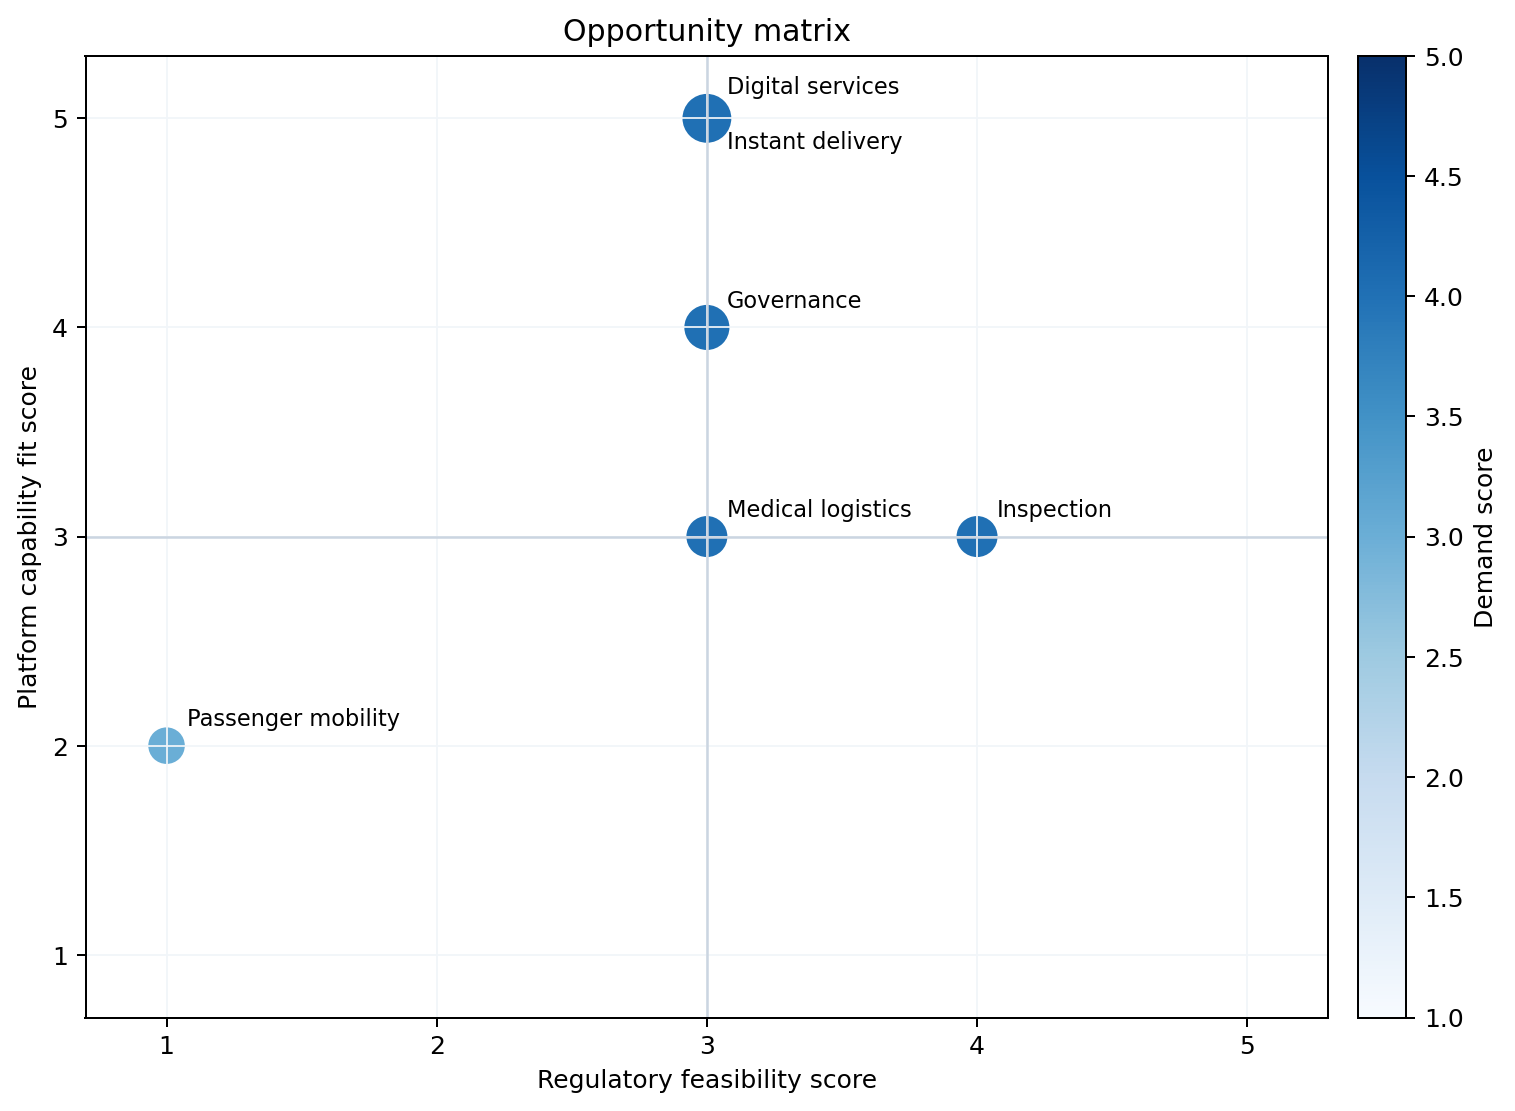
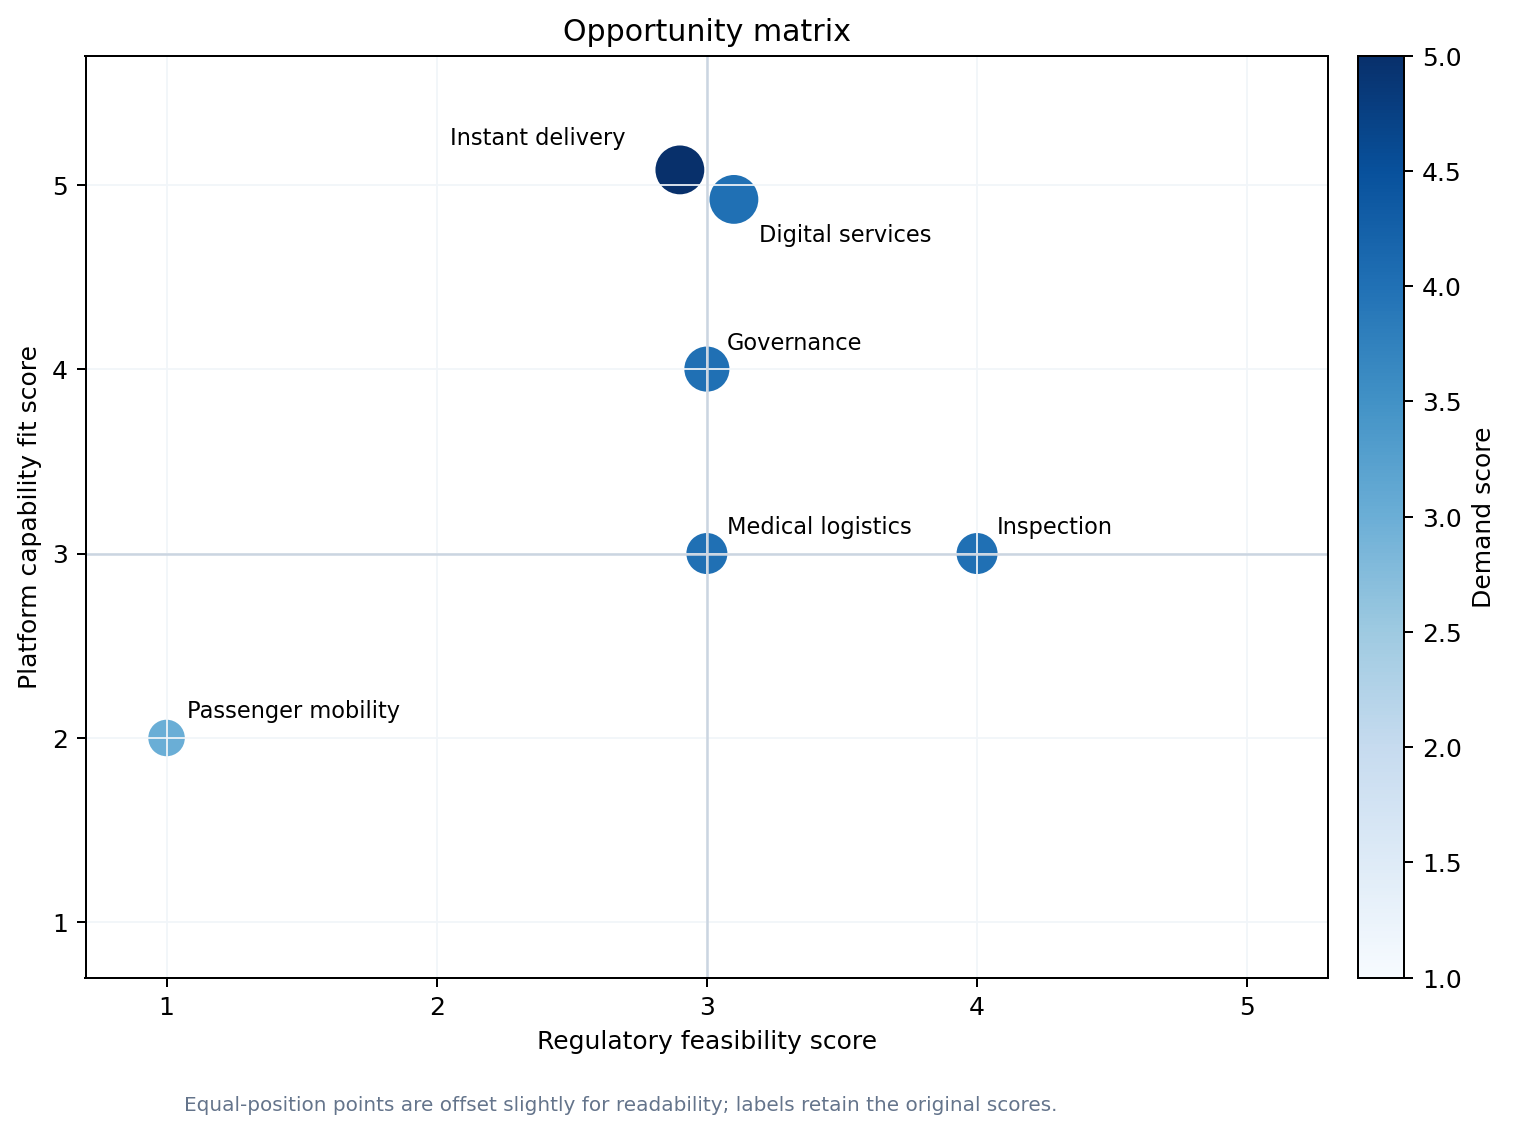
Finalize strategy simulator v1.0

diff --git a/app.py b/app.py
@@ -116,33 +116,72 @@ def priority_chart(ranked: pd.DataFrame) -> go.Figure:
 def opportunity_chart(ranked: pd.DataFrame) -> go.Figure:
     display = ranked.copy()
     display["Short name"] = display["scenario"].replace(SHORT_SCENARIO_NAMES)
-    fig = px.scatter(
-        display,
-        x="regulatory_feasibility_score",
-        y="capability_fit_score",
-        size="demand_score",
-        color="weighted_score",
-        text="Short name",
-        hover_name="scenario",
-        hover_data={
-            "demand_score": True,
-            "commercialization_score": True,
-            "data_network_effect_score": True,
-            "weighted_score": ":.2f",
-            "Short name": False,
-        },
-        color_continuous_scale=[[0, "#d9e2ec"], [1, "#1f5aa6"]],
-        range_color=[1, 5],
-        size_max=28,
+    point_offsets = {
+        "Urban instant delivery": (-0.10, 0.08),
+        "Low-altitude digital infrastructure and services": (0.10, -0.08),
+    }
+    display["plot_x"] = display.apply(
+        lambda row: row["regulatory_feasibility_score"] + point_offsets.get(row["scenario"], (0, 0))[0],
+        axis=1,
     )
-    fig.update_traces(textposition="top center")
+    display["plot_y"] = display.apply(
+        lambda row: row["capability_fit_score"] + point_offsets.get(row["scenario"], (0, 0))[1],
+        axis=1,
+    )
+    text_positions = {
+        "Urban instant delivery": "top left",
+        "Low-altitude digital infrastructure and services": "bottom right",
+        "Industrial inspection": "top center",
+        "Urban governance and emergency response": "top center",
+        "Medical and emergency logistics": "top center",
+        "Tourism and passenger mobility": "top center",
+    }
+    display["text_position"] = display["scenario"].map(text_positions)
+    custom_data = display[
+        [
+            "scenario",
+            "regulatory_feasibility_score",
+            "capability_fit_score",
+            "demand_score",
+            "weighted_score",
+        ]
+    ]
+    fig = go.Figure(
+        go.Scatter(
+            x=display["plot_x"],
+            y=display["plot_y"],
+            mode="markers+text",
+            text=display["Short name"],
+            textposition=display["text_position"],
+            cliponaxis=False,
+            customdata=custom_data,
+            marker=dict(
+                size=display["demand_score"] * 8 + 8,
+                color=display["weighted_score"],
+                colorscale=[[0, "#d9e2ec"], [1, "#1f5aa6"]],
+                cmin=1,
+                cmax=5,
+                colorbar=dict(title="Weighted<br>score", thickness=16),
+                line=dict(color="white", width=1.5),
+                opacity=0.88,
+            ),
+            hovertemplate=(
+                "<b>%{customdata[0]}</b><br>"
+                "Regulatory feasibility: %{customdata[1]:.0f}<br>"
+                "Platform capability fit: %{customdata[2]:.0f}<br>"
+                "Demand: %{customdata[3]:.0f}<br>"
+                "Weighted score: %{customdata[4]:.2f}<extra></extra>"
+            ),
+        )
+    )
     fig.update_layout(
-        height=430,
-        margin=dict(l=15, r=15, t=30, b=20),
-        xaxis=dict(range=[0.6, 5.4], dtick=1, title="Regulatory feasibility"),
-        yaxis=dict(range=[0.6, 5.4], dtick=1, title="Platform capability fit"),
-        coloraxis_colorbar_title="Weighted<br>score",
+        height=460,
+        margin=dict(l=15, r=35, t=55, b=25),
+        xaxis=dict(range=[0.6, 5.4], dtick=1, title="Regulatory feasibility", fixedrange=True),
+        yaxis=dict(range=[0.6, 5.75], dtick=1, title="Platform capability fit", fixedrange=True),
         plot_bgcolor="white",
+        paper_bgcolor="white",
+        showlegend=False,
     )
     fig.add_vline(x=3, line_color="#d9e2ec")
     fig.add_hline(y=3, line_color="#d9e2ec")
@@ -193,6 +232,7 @@ ranked = score_scenarios(scenarios, weights).reset_index(drop=True)
 top = ranked.iloc[0]
 runner_up = ranked.iloc[1]
 score_gap = float(top["weighted_score"] - runner_up["weighted_score"])
+is_tied = score_gap < 0.005
 preset_matrix = ranking_matrix(scenarios, WEIGHT_SETS, score_scenarios)
 stable_top_two = all(
     set(preset_matrix[profile].nsmallest(2).index)
@@ -212,17 +252,32 @@ overview_tab, sensitivity_tab, evidence_tab, pilot_tab, method_tab = st.tabs(
 with overview_tab:
     st.subheader("Current decision")
     m1, m2, m3, m4 = st.columns(4)
-    m1.metric("Recommended first move", SHORT_SCENARIO_NAMES[top["scenario"]], help=top["suggested_posture"])
+    m1.metric(
+        "Recommended first move",
+        "Joint shortlist" if is_tied else SHORT_SCENARIO_NAMES[top["scenario"]],
+        help=f"{top['scenario']} · {top['suggested_posture']}",
+    )
     m2.metric("Leading score", f"{top['weighted_score']:.2f} / 5")
     m3.metric("Runner-up score", f"{runner_up['weighted_score']:.2f} / 5", help=runner_up["scenario"])
     m4.metric("Lead over runner-up", f"{score_gap:.2f} points")
 
+    if is_tied:
+        decision_copy = (
+            f"<b>No clear lead under the {selected_profile.lower()} lens</b><br>"
+            f"<b>{top['scenario']}</b> and <b>{runner_up['scenario']}</b> are tied at "
+            f"{top['weighted_score']:.2f}. Treat them as a joint shortlist and use pilot evidence to separate them."
+        )
+    else:
+        decision_copy = (
+            f"<b>Recommendation under the {selected_profile.lower()} lens</b><br>"
+            f"Start with <b>{top['scenario']}</b>. The suggested posture is "
+            f"<b>{top['suggested_posture'].lower()}</b>. Keep <b>{runner_up['scenario']}</b> "
+            "as the second workstream rather than treating the sector as one large market bet."
+        )
     st.markdown(
         f"""
         <div class="decision-box">
-        <b>Recommendation under the {selected_profile.lower()} lens</b><br>
-        Start with <b>{top['scenario']}</b>. The suggested posture is <b>{top['suggested_posture'].lower()}</b>.
-        Keep <b>{runner_up['scenario']}</b> as the second workstream rather than treating the sector as one large market bet.
+        {decision_copy}
         </div>
         """,
         unsafe_allow_html=True,
@@ -245,6 +300,7 @@ with overview_tab:
     st.divider()
     st.markdown("#### Opportunity map")
     st.plotly_chart(opportunity_chart(ranked), use_container_width=True, config={"displayModeBar": False})
+    st.caption("Bubble size represents demand score. The two equal-position points at the top are offset slightly so both scenarios remain visible; hover labels report the original scores.")
 
 with sensitivity_tab:
     st.subheader("Does the recommendation survive a different strategy lens?")

diff --git a/analysis/scenario_scoring.py b/analysis/scenario_scoring.py
@@ -103,10 +103,22 @@ def make_priority_chart(ranked: pd.DataFrame) -> None:
 
 def make_opportunity_matrix(ranked: pd.DataFrame) -> None:
     fig, ax = plt.subplots(figsize=(9, 6.3))
+    point_offsets = {
+        "Urban instant delivery": (-0.10, 0.08),
+        "Low-altitude digital infrastructure and services": (0.10, -0.08),
+    }
+    plot_x = [
+        row["regulatory_feasibility_score"] + point_offsets.get(row["scenario"], (0, 0))[0]
+        for _, row in ranked.iterrows()
+    ]
+    plot_y = [
+        row["capability_fit_score"] + point_offsets.get(row["scenario"], (0, 0))[1]
+        for _, row in ranked.iterrows()
+    ]
     sizes = 130 + ranked["data_network_effect_score"] * 60
     scatter = ax.scatter(
-        ranked["regulatory_feasibility_score"],
-        ranked["capability_fit_score"],
+        plot_x,
+        plot_y,
         s=sizes,
         c=ranked["demand_score"],
         cmap="Blues",
@@ -124,17 +136,17 @@ def make_opportunity_matrix(ranked: pd.DataFrame) -> None:
         "Tourism and passenger mobility": "Passenger mobility",
     }
     label_offsets = {
-        "Urban instant delivery": (8, -12),
-        "Low-altitude digital infrastructure and services": (8, 10),
+        "Urban instant delivery": (-92, 10),
+        "Low-altitude digital infrastructure and services": (10, -17),
         "Industrial inspection": (8, 8),
         "Urban governance and emergency response": (8, 8),
         "Medical and emergency logistics": (8, 8),
         "Tourism and passenger mobility": (8, 8),
     }
-    for _, row in ranked.iterrows():
+    for point_index, (_, row) in enumerate(ranked.iterrows()):
         ax.annotate(
             short_labels[row["scenario"]],
-            (row["regulatory_feasibility_score"], row["capability_fit_score"]),
+            (plot_x[point_index], plot_y[point_index]),
             xytext=label_offsets[row["scenario"]],
             textcoords="offset points",
             fontsize=9,
@@ -142,14 +154,21 @@ def make_opportunity_matrix(ranked: pd.DataFrame) -> None:
     ax.axvline(3, color="#CBD5E1", linewidth=1)
     ax.axhline(3, color="#CBD5E1", linewidth=1)
     ax.set_xlim(0.7, 5.3)
-    ax.set_ylim(0.7, 5.3)
+    ax.set_ylim(0.7, 5.7)
     ax.set_xlabel("Regulatory feasibility score")
     ax.set_ylabel("Platform capability fit score")
     ax.set_title("Opportunity matrix")
     colorbar = fig.colorbar(scatter, ax=ax, pad=0.02)
     colorbar.set_label("Demand score")
     ax.grid(color="#F1F5F9", linewidth=0.7)
-    fig.tight_layout()
+    fig.text(
+        0.12,
+        0.01,
+        "Equal-position points are offset slightly for readability; labels retain the original scores.",
+        fontsize=8,
+        color="#64748B",
+    )
+    fig.tight_layout(rect=[0, 0.035, 1, 1])
     fig.savefig(FIGURE_DIR / "opportunity-matrix.png", dpi=180, bbox_inches="tight")
     plt.close(fig)
 

diff --git a/analysis/decision_support.py b/analysis/decision_support.py
@@ -38,6 +38,13 @@ def build_decision_memo(
     """Create a concise Markdown record of the current decision view."""
     top = ranked.iloc[0]
     second = ranked.iloc[1]
+    tied = abs(float(top["weighted_score"]) - float(second["weighted_score"])) < 0.005
+    recommendation_note = (
+        f"The two leading scenarios are tied under this lens. Treat **{top['scenario']}** and "
+        f"**{second['scenario']}** as a joint shortlist and use pilot evidence to separate them."
+        if tied
+        else "The ranking is a screening result, not an investment forecast. A decision to proceed still requires a city- and route-level permission path, operating partner diligence, and unit-economics evidence."
+    )
     lines = [
         "# Low-altitude Economy Scenario Decision Memo",
         "",
@@ -48,7 +55,7 @@ def build_decision_memo(
         f"1. **{top['scenario']}** — {top['weighted_score']:.2f}/5; {top['suggested_posture']}.",
         f"2. **{second['scenario']}** — {second['weighted_score']:.2f}/5; {second['suggested_posture']}.",
         "",
-        "The ranking is a screening result, not an investment forecast. A decision to proceed still requires a city- and route-level permission path, operating partner diligence, and unit-economics evidence.",
+        recommendation_note,
         "",
         "## Weighting used",
         "",
@@ -91,4 +98,3 @@ def build_decision_memo(
         ]
     )
     return "\n".join(lines)
-

diff --git a/tests/test_scoring.py b/tests/test_scoring.py
@@ -57,6 +57,14 @@ class ScenarioScoringTests(unittest.TestCase):
         self.assertIn("Urban instant delivery", memo)
         self.assertIn("screening result, not an investment forecast", memo)
 
+    def test_decision_memo_handles_tied_leaders(self):
+        weights = normalize_weights(
+            {key: (100 if key == "capability_fit_score" else 0) for key in CRITERIA}
+        )
+        ranked = score_scenarios(self.frame, weights)
+        memo = build_decision_memo(ranked, "Custom", weights, CRITERIA)
+        self.assertIn("joint shortlist", memo)
+
 
 if __name__ == "__main__":
     unittest.main()
